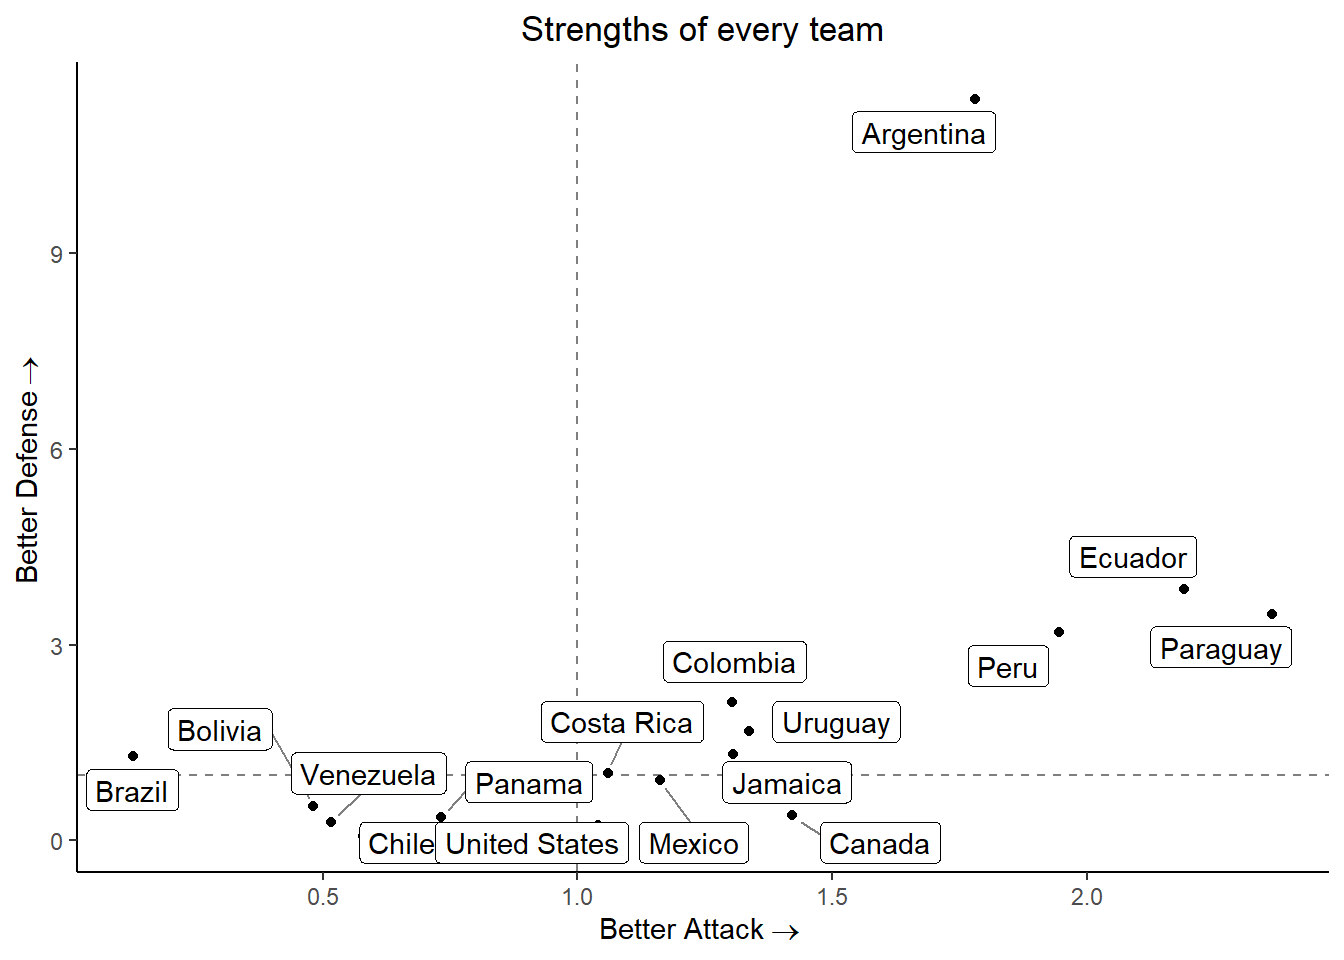
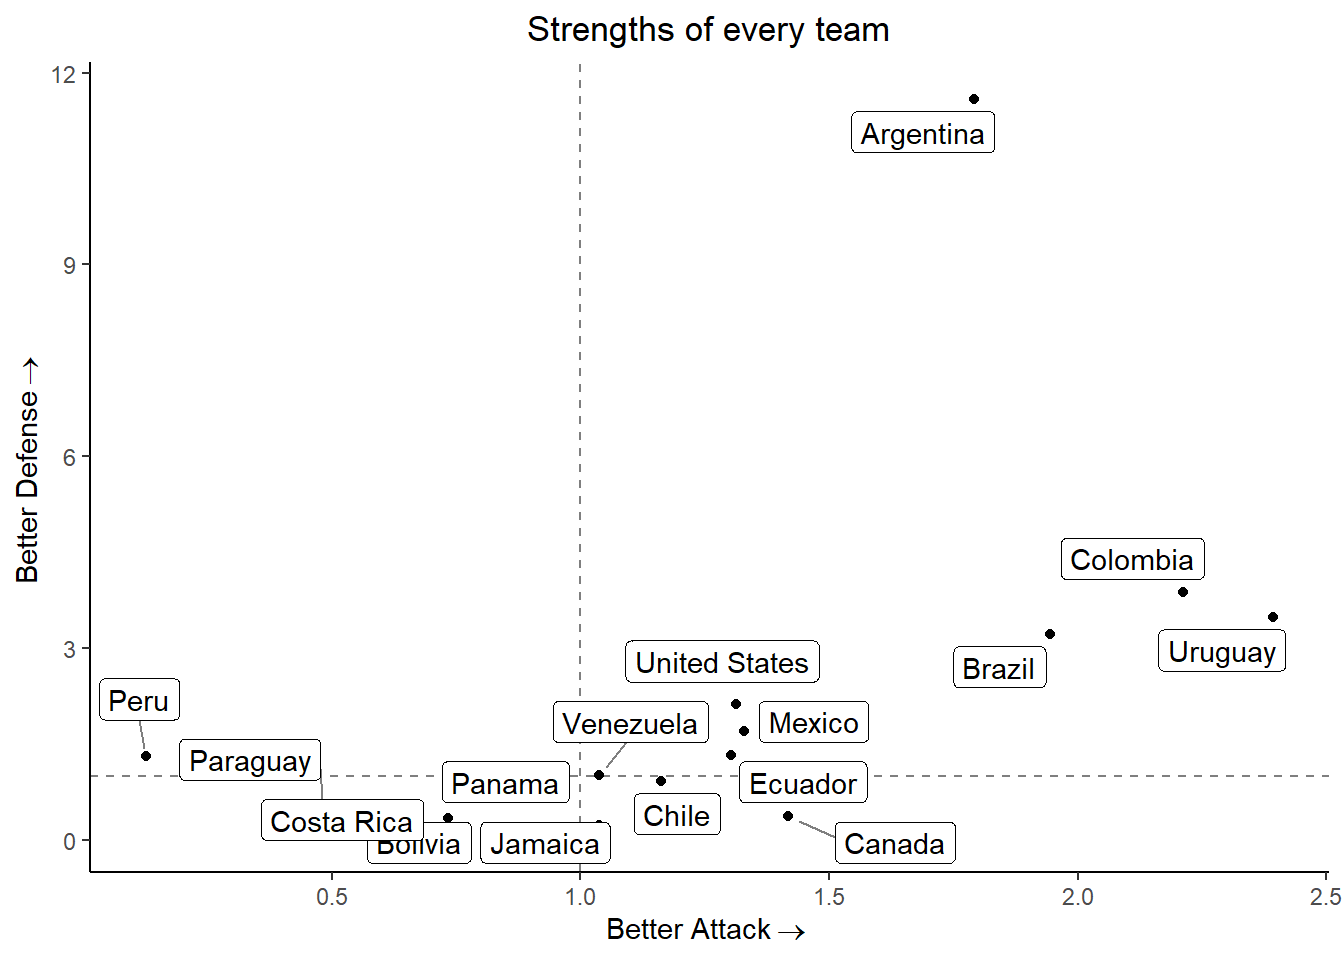
update projects

diff --git a/docs/projects/copaamerica_2024.html b/docs/projects/copaamerica_2024.html
@@ -224,7 +224,7 @@ pre > code.sourceCode > span > a:first-child::before { text-decoration: underlin
 </div>
 <p>The proposed model is based on the teams’ strengths attacking and defending. Therefore, we will consider only the games played during 2024. An improved model would be one with dynamic strengths.</p>
 <div class="cell">
-<div class="sourceCode cell-code" id="cb5"><pre class="sourceCode r code-with-copy"><code class="sourceCode r"><span id="cb5-1"><a href="#cb5-1" aria-hidden="true" tabindex="-1"></a>america_2024 <span class="ot">=</span> <span class="fu">c</span>(<span class="st">'Argentina'</span>, <span class="st">'Chile'</span>, <span class="st">'Peru'</span>, <span class="st">'Canada'</span>, <span class="st">'Mexico'</span>, <span class="st">'Ecuador'</span>, <span class="st">'Venezuela'</span>, <span class="st">'Jamaica'</span>, <span class="st">'United States'</span>, <span class="st">'Uruguay'</span>, <span class="st">'Panama'</span>, <span class="st">'Bolivia'</span>, <span class="st">'Brazil'</span>, <span class="st">'Colombia'</span>, <span class="st">'Paraguay'</span>, <span class="st">'Costa Rica'</span>)</span>
+<div class="sourceCode cell-code" id="cb5"><pre class="sourceCode r code-with-copy"><code class="sourceCode r"><span id="cb5-1"><a href="#cb5-1" aria-hidden="true" tabindex="-1"></a>america_2024 <span class="ot">=</span> <span class="fu">sort</span>(<span class="fu">c</span>(<span class="st">'Argentina'</span>, <span class="st">'Chile'</span>, <span class="st">'Peru'</span>, <span class="st">'Canada'</span>, <span class="st">'Mexico'</span>, <span class="st">'Ecuador'</span>, <span class="st">'Venezuela'</span>, <span class="st">'Jamaica'</span>, <span class="st">'United States'</span>, <span class="st">'Uruguay'</span>, <span class="st">'Panama'</span>, <span class="st">'Bolivia'</span>, <span class="st">'Brazil'</span>, <span class="st">'Colombia'</span>, <span class="st">'Paraguay'</span>, <span class="st">'Costa Rica'</span>))</span>
 <span id="cb5-2"><a href="#cb5-2" aria-hidden="true" tabindex="-1"></a></span>
 <span id="cb5-3"><a href="#cb5-3" aria-hidden="true" tabindex="-1"></a>scores <span class="ot">&lt;-</span> data <span class="sc">%&gt;%</span> </span>
 <span id="cb5-4"><a href="#cb5-4" aria-hidden="true" tabindex="-1"></a>  <span class="fu">filter</span>(home_team <span class="sc">%in%</span> america_2024 <span class="sc">&amp;</span> away_team <span class="sc">%in%</span> america_2024) <span class="sc">%&gt;%</span> </span>
@@ -362,20 +362,20 @@ pre > code.sourceCode > span > a:first-child::before { text-decoration: underlin
 <pre><code># A tibble: 14 × 5
       id `Team 1`      `Exp. Goals` `Team 2`      `Exp. Goals 2`
    &lt;int&gt; &lt;chr&gt;                &lt;dbl&gt; &lt;chr&gt;                  &lt;dbl&gt;
- 1    84 Ecuador              1.95  Jamaica               0.746 
- 2    85 Mexico               0.605 Venezuela             1.70  
- 3    86 Panama               0.564 United States         2.31  
- 4    87 Bolivia              0.297 Uruguay               3.31  
- 5    88 Colombia             3.09  Costa Rica            0.298 
+ 1    84 Ecuador              1.95  Jamaica               0.735 
+ 2    85 Mexico               0.595 Venezuela             1.67  
+ 3    86 Panama               0.557 United States         2.31  
+ 4    87 Bolivia              0.310 Uruguay               3.32  
+ 5    88 Colombia             3.16  Costa Rica            0.295 
  6    89 Brazil               1.32  Paraguay              0.428 
- 7    90 Argentina            1.23  Peru                  0.0565
- 8    91 Canada               0.972 Chile                 1.41  
- 9    92 Ecuador              1.40  Mexico                0.926 
-10    93 Jamaica              0.489 Venezuela             2.40  
-11    94 United States        0.801 Uruguay               1.78  
-12    95 Bolivia              0.870 Panama                1.03  
+ 7    90 Argentina            1.22  Peru                  0.0515
+ 8    91 Canada               0.973 Chile                 1.43  
+ 9    92 Ecuador              1.36  Mexico                0.914 
+10    93 Jamaica              0.485 Venezuela             2.44  
+11    94 United States        0.812 Uruguay               1.80  
+12    95 Bolivia              0.864 Panama                1.04  
 13    96 Brazil               1.02  Colombia              1.75  
-14    97 Costa Rica           0.379 Paraguay              0.748 </code></pre>
+14    97 Costa Rica           0.396 Paraguay              0.731 </code></pre>
 </div>
 </div>
 

diff --git a/docs/projects.html b/docs/projects.html
@@ -218,7 +218,7 @@ window.Quarto = {
 <h3 class="anchored" data-anchor-id="projects">Projects</h3>
 <div id="listing-sample-listings" class="quarto-listing quarto-listing-container-default">
 <div class="list quarto-listing-default">
-<div class="quarto-post image-right" data-index="0" data-listing-file-modified-sort="1719378518501" data-listing-reading-time-sort="4" data-listing-word-count-sort="718">
+<div class="quarto-post image-right" data-index="0" data-listing-file-modified-sort="1719379316351" data-listing-reading-time-sort="4" data-listing-word-count-sort="718">
 <div class="thumbnail">
 <p><a href="./projects/copaamerica_2024.html" class="no-external"></a></p><a href="./projects/copaamerica_2024.html" class="no-external">
 <p class="card-img-top"><img src="projects\copaamerica_2024_files\figure-html\unnamed-chunk-12-1.png"  class="thumbnail-image card-img"/></p>
